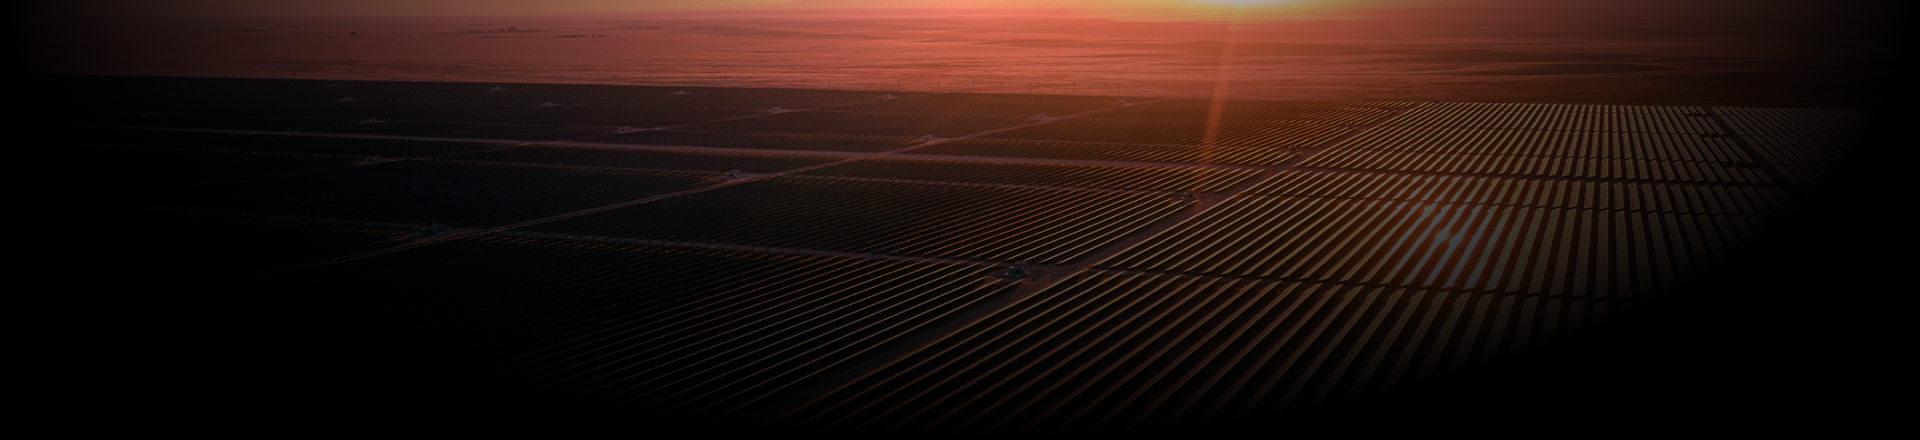
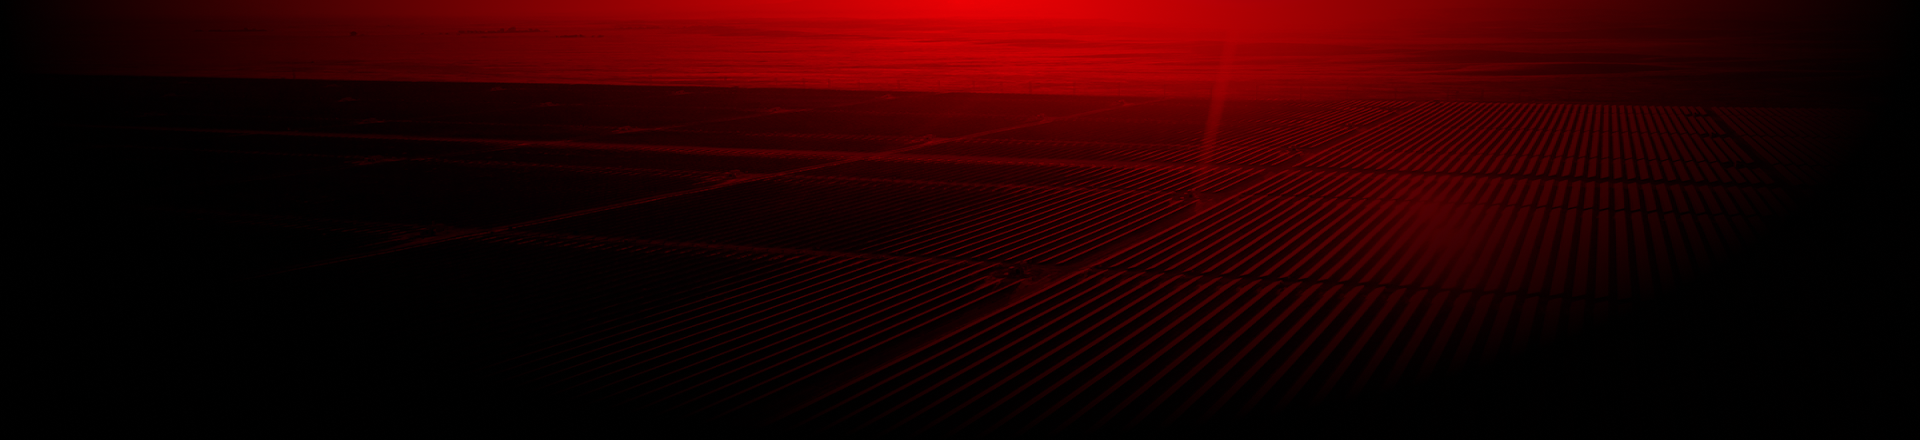
strated individual blog page

Changed region(s): [[0.0938, 0.0, 0.9062, 0.8273], [0.2188, 0.2955, 0.2812, 0.325], [0.3125, 0.4432, 0.3438, 0.4727]]

diff --git a/src/app/[locale]/about/blog/constants.tsx b/src/app/[locale]/about/blog/constants.tsx
@@ -1,0 +1,106 @@
+type BlogPostBlockData = {
+  paragraphs?: string[];
+  subtitle?: string;
+};
+
+interface BlogPosts {
+  id: number;
+  type: string;
+  typeNumber: string;
+  title: string;
+  statistics: {
+    creationDate: string;
+    readingTime: string;
+    author: string;
+  };
+  content: {
+    sectionHeadline?: string;
+    image?: { src: string; width: number; height: number };
+    block?: BlogPostBlockData[];
+  }[];
+}
+
+export const BLOG_POSTS: BlogPosts[] = [
+  {
+    id: 1,
+    type: "explainer",
+    typeNumber: "000",
+    title: "How do grid-connected PV systems save your bills?",
+    statistics: {
+      creationDate: "2024, 25 Jan",
+      readingTime: "5 mins",
+      author: "JJ NI",
+    },
+    content: [
+      {
+        sectionHeadline: "General Infomation",
+        block: [
+          {
+            paragraphs: [
+              "As the demand for sustainable and cost-effective energy solutions continues to grow, grid-connected photovoltaic (PV) systems have emerged as a prominent option for both residential and commercial applications. Grid-tied systems are connected to the grid and can interact with it to sell excess power back to the utility company or draw power from the grid when needed. This article aims to provide a comprehensive understanding of the process involved in generating electricity from grid-tied PV systems.",
+              "The process of grid-connected PV systems can be broken down into the following key steps:",
+            ],
+          },
+          {
+            subtitle: "1. Solar Energy Conversion",
+            paragraphs: [
+              "The first step in the process involves the conversion of sunlight into direct current (DC) electricity by the solar panels. This is achieved through the use of photovoltaic cells, which directly convert solar radiation into electrical energy.",
+            ],
+          },
+          {
+            subtitle: "2. Inversion of Electricity",
+            paragraphs: [
+              "The generated DC electricity is then fed into an inverter, where it is converted into alternating current (AC) electricity. This conversion is essential as most electrical appliances and the grid itself operate on AC power.",
+            ],
+          },
+          {
+            subtitle: "3. Grid Connection",
+            paragraphs: [
+              "The converted AC electricity is then fed into the electrical grid, where it can be utilized to power homes, businesses, and other electrical loads. Any excess electricity generated by the PV system is fed back into the grid, allowing homeowners or businesses to earn credits on their utility bills for the surplus energy provided.",
+            ],
+          },
+          {
+            subtitle: "4. Household consume",
+            paragraphs: [
+              "With the solar energy successfully converted into AC electricity, the electricity generated by the PV system can be directly used to power lights, appliances, and other electronic devices within the home or building.",
+            ],
+          },
+          {
+            paragraphs: [
+              "The process of grid-connected PV systems can be broken down into the following key steps:",
+            ],
+          },
+        ],
+      },
+      {
+        image: { src: "saveBills.png", width: 1320, height: 1880 },
+      },
+      {
+        sectionHeadline: "How does it save your electricity bills?",
+        block: [
+          {
+            paragraphs: ["You can make savings from solar panels in two ways:"],
+          },
+          {
+            subtitle: "1. Direct electricity savings",
+            paragraphs: [
+              "The first step in the process involves the conversion of sunlight into direct current (DC) electricity by the solar panels. This is achieved through the use of photovoltaic cells, which directly convert solar radiation into electrical energy.",
+            ],
+          },
+          {
+            subtitle: "2. Inversion of Electricity",
+            paragraphs: [
+              "In addition to direct electricity savings, homeowners with grid-connected PV systems may also be eligible for feed-in tariffs. These tariffs allow homeowners to sell any excess electricity generated by their solar panels back to the grid, providing an additional source of income through surplus electricity production. This financial incentive further enhances the economic benefits of grid-connected PV systems, making them an attractive option for homeowners looking to reduce their electricity costs.",
+            ],
+          },
+          {
+            paragraphs: [
+              "Grid-connected PV systems offer a sustainable and economically viable method of electricity generation while reducing the reliance on traditional fossil fuel-based power generation. By harnessing solar energy and integrating it with the existing electrical grid infrastructure, these systems contribute to the overall reduction of greenhouse gas emissions and environmental impact.",
+              `For more information on grid-connected PV systems and their benefits, feel free <a href="/consult" target="_blank" style="text-decoration: underline;">to reach out to our team</a>`,
+            ],
+          },
+        ],
+      },
+    ],
+  },
+];

diff --git a/src/app/[locale]/about/blog/[id]/page.tsx b/src/app/[locale]/about/blog/[id]/page.tsx
@@ -1,0 +1,88 @@
+import { BLOG_POSTS } from "@/app/[locale]/about/blog/constants";
+import Image from "next/image";
+import parse from "html-react-parser";
+import BlogPostImage from "@/app/[locale]/about/blog/[id]/components/BlogPostImage";
+
+export default function BlogPost({
+  params: { id },
+}: {
+  params: { id: string };
+}) {
+  const blogPost = BLOG_POSTS.find((post) => post.id === +id);
+
+  if (!blogPost) return <div className="text-center">Post not found</div>;
+
+  const { type, title, statistics, content } = blogPost;
+  const statisticsParamsWithIconsMapping = {
+    creationDate: "calendar",
+    readingTime: "time",
+    author: "author",
+  };
+
+  return (
+    <div className="-mt-[160px] relative z-10">
+      <div className="[font-size:_clamp(16px,2vw,24px)] uppercase text-[#B30006] font-extrabold mb-6">
+        {type}
+      </div>
+      <div className="[font-size:_clamp(32px,4vw,64px)] font-semibold leading-[130%] mb-6">
+        {title}
+      </div>
+      <div className="flex [&>*:last-child]:border-none [&>*:first-child]:pl-0 mb-14">
+        {Object.keys(statisticsParamsWithIconsMapping).map((statParam) => (
+          <div
+            key={statParam}
+            className="flex border-r border-solid border-base-red px-4 items-center"
+          >
+            <Image
+              src={`/images/about/blog/${
+                statisticsParamsWithIconsMapping[
+                  statParam as keyof typeof statisticsParamsWithIconsMapping
+                ]
+              }.svg`}
+              alt={statParam}
+              width={16}
+              height={16}
+              className="mr-1"
+            />
+            <span className="[font-size:_clamp(10px,1vw,14px)] font-bold font-walsheim text-dark-gray-900 leading-[100%]">
+              {statistics[statParam as keyof typeof statistics]}
+            </span>
+          </div>
+        ))}
+      </div>
+      <div className="flex flex-col">
+        {content.map(({ sectionHeadline, block, image }, index) => (
+          <div key={index}>
+            <div className="flex gap-8">
+              <div className="[font-size:_clamp(16px,1.5vw,24px)] font-bold leading-[120%] -tracking-[0.24px] w-[300px] flex">
+                {sectionHeadline}
+              </div>
+              <div className="flex flex-col">
+                {block &&
+                  block.map(({ paragraphs, subtitle }, index) => (
+                    <div key={index} className="mb-9 [&>p:last-child]:mb-0">
+                      {subtitle && (
+                        <div className="[font-size:_clamp(12px,1.5vw,20px)] font-bold font-walsheim leading-[120%] mb-6 max-w-[650px]">
+                          {subtitle}
+                        </div>
+                      )}
+                      {!!paragraphs?.length &&
+                        paragraphs.map((paragraph) => (
+                          <p
+                            key={paragraph}
+                            className="[font-size:_clamp(12px,1.5vw,20px)] font-normal font-walsheim leading-[150%] mb-5 max-w-[650px]"
+                          >
+                            {parse(paragraph)}
+                          </p>
+                        ))}
+                    </div>
+                  ))}
+              </div>
+            </div>
+            {image && <BlogPostImage image={image} />}
+          </div>
+        ))}
+      </div>
+    </div>
+  );
+}

diff --git a/src/app/[locale]/about/blog/[id]/layout.tsx b/src/app/[locale]/about/blog/[id]/layout.tsx
@@ -1,0 +1,62 @@
+import BasicWidthContainer from "@/app/[locale]/components/common/BasicWidthContainer";
+import Image from "next/image";
+
+const mapTitleWithDocumentsCategory = {
+  documents: { title: "Documents", desription: "Documents You Need to Know" },
+  faq: { title: "FAQ", desription: "Have a Question? We Have Solutions" },
+  publishers_info: {
+    title: "Publishers Info",
+    desription: "Publisher's Information",
+  },
+  imprint: {
+    title: "Imprint Info",
+    desription: "Imprint Information",
+  },
+};
+
+export async function generateMetadata() {
+  const title = `AE-Solar | `;
+  const description = `AE-Solar | `;
+
+  return {
+    title,
+    description,
+    keywords: [],
+    metadataBase: new URL(`https://${process.env.VERCEL_URL}`),
+    openGraph: {
+      title,
+      description,
+      type: "website",
+    },
+  };
+}
+
+export default function DocumentsLayout({
+  children,
+}: {
+  children: React.ReactNode;
+}) {
+  return (
+    <>
+      <div className="relative -mt-[80px] flex justify-center">
+        <Image
+          src="/images/about/blog/blogPostBackground.png"
+          alt="documents"
+          width={1920}
+          height={440}
+          quality={100}
+          priority
+          className="h-[440px]"
+        />
+        {/* <div className="flex w-full justify-center absolute bottom-0"> */}
+        {/* <BasicWidthContainer>
+      <DocumentsHeading />
+    </BasicWidthContainer> */}
+        {/* </div> */}
+      </div>
+      <div className="flex w-full justify-center">
+        <BasicWidthContainer>{children}</BasicWidthContainer>
+      </div>
+    </>
+  );
+}

diff --git a/src/app/[locale]/about/blog/[id]/components/BlogPostImage/index.tsx b/src/app/[locale]/about/blog/[id]/components/BlogPostImage/index.tsx
@@ -1,0 +1,50 @@
+"use client";
+
+import { BlogPostImageProps } from "@/app/[locale]/about/blog/[id]/components/BlogPostImage/types";
+import LightBoxImage from "@/app/[locale]/components/common/LightBoxImage";
+import Image from "next/image";
+import { useState } from "react";
+import Lightbox from "yet-another-react-lightbox";
+import Zoom from "yet-another-react-lightbox/plugins/zoom";
+import "yet-another-react-lightbox/styles.css";
+
+export default function BlogPostImage({ image }: BlogPostImageProps) {
+  const [open, setOpen] = useState(false);
+
+  return (
+    <div className="cursor-pointer flex justify-center mb-9">
+      <Lightbox
+        open={open}
+        close={() => setOpen(false)}
+        carousel={{ finite: true }}
+        slides={[{ src: `/images/about/blog/${image.src}` }]}
+        plugins={[Zoom]}
+        controller={{
+          closeOnPullDown: true,
+          closeOnBackdropClick: true,
+          closeOnPullUp: true,
+        }}
+        render={{
+          slide: LightBoxImage,
+          buttonPrev: () => null,
+          buttonNext: () => null,
+        }}
+        styles={{
+          container: {
+            backgroundColor: "rgb(25, 25, 25, 0.5)",
+            backdropFilter: "blur(10px)",
+          },
+        }}
+      />
+      <Image
+        src={`/images/about/blog/${image.src}`}
+        alt={image.src}
+        width={image.width}
+        height={image.height}
+        quality={100}
+        className="inline-block"
+        onClick={() => setOpen(true)}
+      />
+    </div>
+  );
+}

diff --git a/src/app/[locale]/about/blog/[id]/opengraph-image.tsx b/src/app/[locale]/about/blog/[id]/opengraph-image.tsx
@@ -1,0 +1,50 @@
+import { ImageResponse } from "next/og";
+
+export const runtime = "edge";
+
+export const alt = "AE Solar";
+export const size = {
+  width: 1200,
+  height: 630,
+};
+
+export const contentType = "image/png";
+
+export default async function Image() {
+  const interSemiBold = fetch(
+    new URL(
+      "../../../fonts/Criteria CF/Criteria CF Medium.otf",
+      import.meta.url
+    )
+  ).then((res) => res.arrayBuffer());
+
+  return new ImageResponse(
+    (
+      <div
+        style={{
+          fontSize: 64,
+          background: "white",
+          width: "100%",
+          height: "100%",
+          display: "flex",
+          alignItems: "center",
+          flexDirection: "column",
+          justifyContent: "center",
+        }}
+      >
+        AE Solar | Documents
+      </div>
+    ),
+    {
+      ...size,
+      fonts: [
+        {
+          name: "Inter",
+          data: await interSemiBold,
+          style: "normal",
+          weight: 400,
+        },
+      ],
+    }
+  );
+}

diff --git a/src/app/[locale]/components/common/Navigation/index.tsx b/src/app/[locale]/components/common/Navigation/index.tsx
@@ -23,7 +23,7 @@ export default function Navigation() {
   const pathname = usePathname();
 
   const hideSubnavigation = () => {
-    return ["calculate", "consult", "documents"].some((path) =>
+    return ["calculate", "consult", "documents", "about"].some((path) =>
       pathname.includes(path)
     );
   };

diff --git a/src/app/[locale]/utils/constants.ts b/src/app/[locale]/utils/constants.ts
@@ -41,6 +41,10 @@ export const HEADER_NAV_LINKS_ARRAY = [
   {
     url: "/about",
     text: "About us",
+    subMenu: [
+      { url: "/about", text: "About us" },
+      { url: "/about/blog", text: "Blog" },
+    ],
   },
   {
     url: "/news",

diff --git a/src/app/[locale]/about/blog/[id]/components/BlogPostImage/types.ts b/src/app/[locale]/about/blog/[id]/components/BlogPostImage/types.ts
@@ -1,0 +1,7 @@
+export interface BlogPostImageProps {
+  image: {
+    src: string;
+    width: number;
+    height: number;
+  };
+}

diff --git a/src/app/[locale]/about/blog/page.tsx b/src/app/[locale]/about/blog/page.tsx
@@ -1,0 +1,3 @@
+export default function Blog() {
+  return <div>blog</div>;
+}
